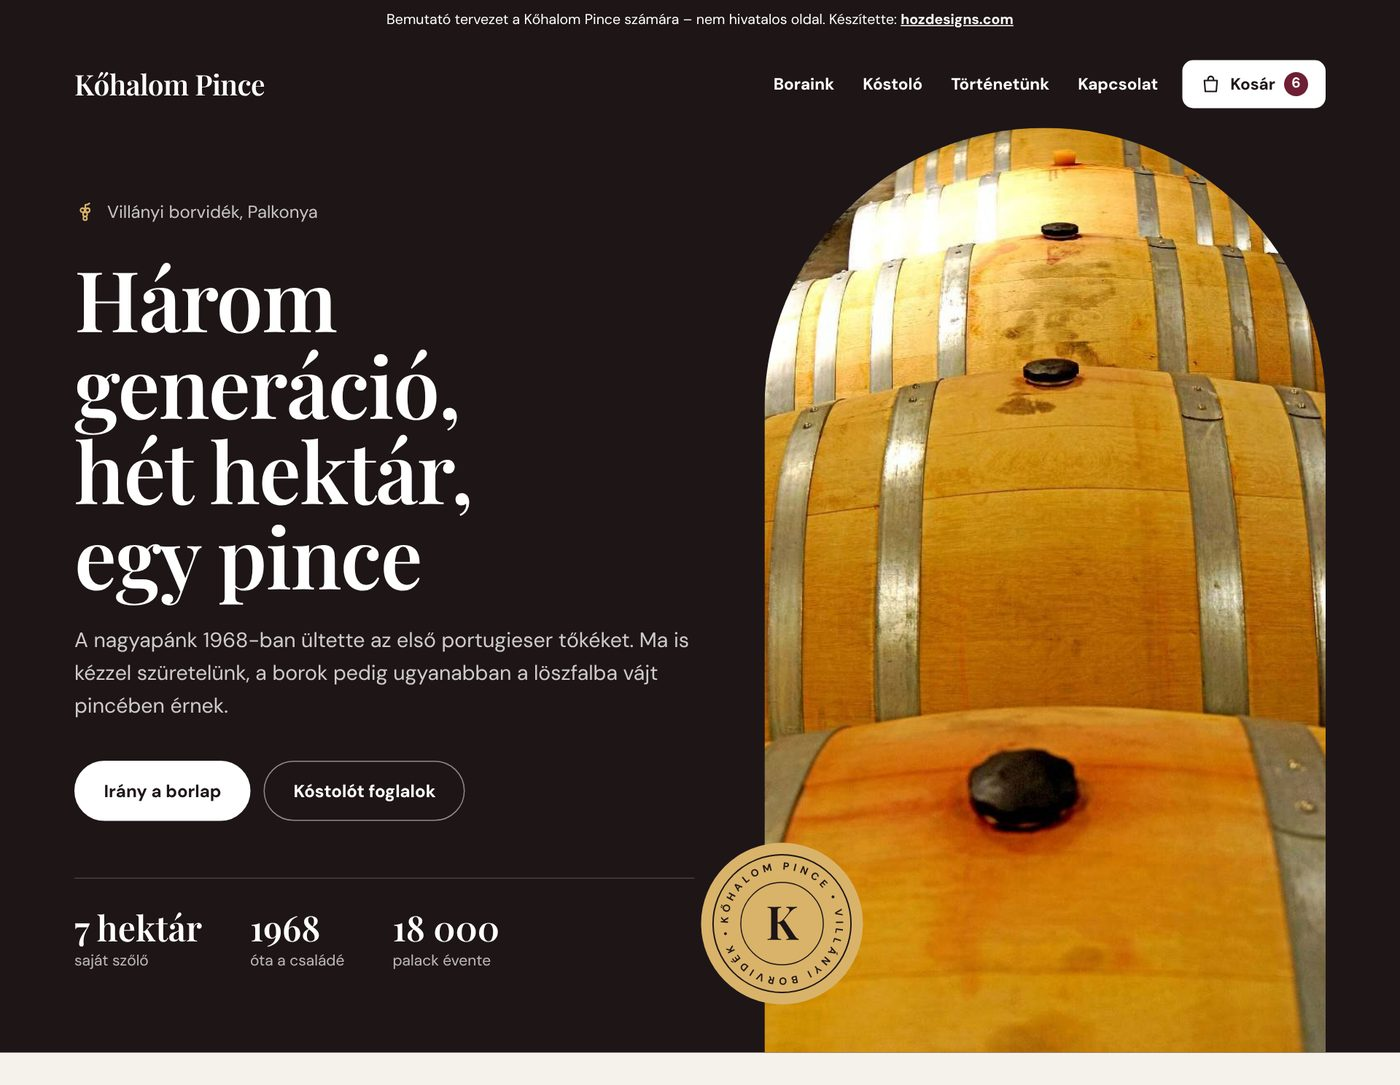
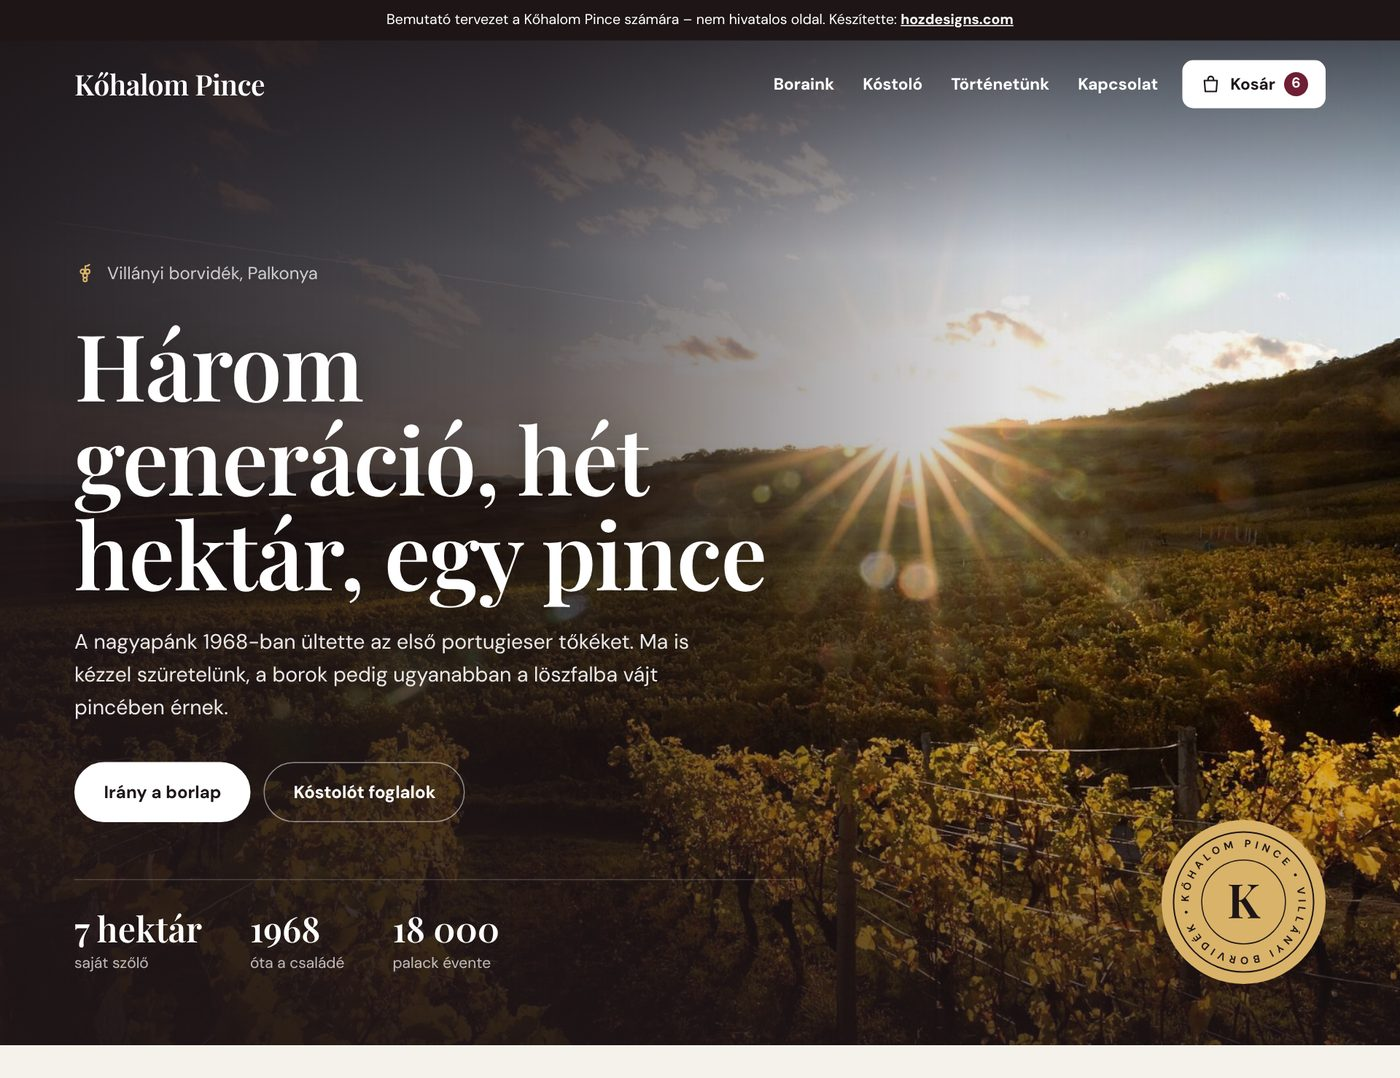
teszt-boraszat: erősebb, teljes szélességű nyitókép
Claude-Session: https://claude.ai/code/session_016Run1nACTgNtgLbjaBZxC9

diff --git a/minta/teszt-boraszat/index.html b/minta/teszt-boraszat/index.html
@@ -373,6 +373,23 @@ footer b{color:var(--ink)}
   .prose{padding-top:56px}.prose p{font-size:18px}
   .dulok{padding:56px 0}
 }
+/* teljes szélességű nyitókép (cfg hero.layout: "teljes") – csak éles, legalább ~1600 px széles fotóval */
+.hero.full{position:relative;display:flex;align-items:flex-end;min-height:min(88vh,860px);isolation:isolate}
+.hero.full .bg{position:absolute;inset:0;z-index:-2}
+.hero.full .bg img{width:100%;height:100%;object-fit:cover;object-position:var(--pos,center)}
+.hero.full::before{content:"";position:absolute;inset:0;z-index:-1;background:linear-gradient(90deg,color-mix(in srgb,var(--dark) 92%,transparent) 0%,color-mix(in srgb,var(--dark) 70%,transparent) 38%,color-mix(in srgb,var(--dark) 12%,transparent) 72%,transparent 100%),linear-gradient(0deg,color-mix(in srgb,var(--dark) 75%,transparent) 0%,transparent 34%),linear-gradient(180deg,color-mix(in srgb,var(--dark) 70%,transparent) 0%,transparent 22%)}
+.hero.full .wrap{display:block;width:100%}
+.hero.full .txt{max-width:660px;padding:120px 0 64px}
+.hero.full h1{font-size:clamp(46px,6.6vw,98px);text-shadow:0 2px 30px rgba(0,0,0,.35)}
+.hero.full .lead{color:rgba(255,255,255,.9)}
+.hero.full .seal{position:absolute;right:max(28px,calc((100vw - 1200px)/2 + 28px));bottom:56px;width:150px;height:150px;color:var(--dark);background:var(--gold);border-radius:50%;padding:9px}
+.t-vilagos .hero.full{color:#fff}
+@media (max-width:1000px){
+  .hero.full{min-height:0}
+  .hero.full::before{background:linear-gradient(0deg,color-mix(in srgb,var(--dark) 94%,transparent) 0%,color-mix(in srgb,var(--dark) 72%,transparent) 50%,color-mix(in srgb,var(--dark) 18%,transparent) 100%)}
+  .hero.full .txt{padding:150px 0 44px}
+  .hero.full .seal{width:96px;height:96px;right:18px;bottom:auto;top:104px}
+}
 </style>
 </head>
 <body class="k-bor s-alap t-alap">
@@ -382,7 +399,8 @@ footer b{color:var(--ink)}
   <nav aria-label="Fő menü"><a href="#borok">Boraink</a><a href="#kostolo">Kóstoló</a><a href="tortenetunk/">Történetünk</a><a href="#kapcsolat">Kapcsolat</a><button type="button" class="cartbtn" data-cart aria-label="Kosár megnyitása"><svg class="ico" aria-hidden="true"><use href="#i-bag"/></svg><span class="t">Kosár</span><span class="n" data-n hidden>0</span></button></nav>
 </header>
 <main>
-<section class="hero" data-shot="hero">
+<section class="hero full" data-shot="hero">
+  <div class="bg" style="--pos:60% 60%"><img src="img/h6.jpg" alt="Szőlősorok naplementében" width="1600" height="1067"></div>
   <div class="wrap">
     <div class="txt">
       <p class="reg"><svg class="ico" aria-hidden="true"><use href="#i-grape"/></svg>Villányi borvidék, Palkonya</p>
@@ -391,8 +409,9 @@ footer b{color:var(--ink)}
       <div class="cta"><a class="btn" href="#borok">Irány a borlap</a><a class="btn line" href="#kostolo">Kóstolót foglalok</a></div>
       <div class="facts"><div><b>7 hektár</b><span>saját szőlő</span></div><div><b>1968</b><span>óta a családé</span></div><div><b>18 000</b><span>palack évente</span></div></div>
     </div>
-    <div class="pic"><img src="img/b7.jpg" alt="Tölgyfa hordók a pincében" width="750" height="1125"><svg class="seal" viewBox="0 0 200 200" aria-hidden="true"><defs><path id="sealp" d="M100 100m-76 0a76 76 0 1 1 152 0a76 76 0 1 1-152 0"/></defs><circle cx="100" cy="100" r="97" fill="none" stroke="currentColor" stroke-width="2"/><circle cx="100" cy="100" r="58" fill="none" stroke="currentColor" stroke-width="1.5"/><text font-size="14.5"><textPath href="#sealp" textLength="468" lengthAdjust="spacing">KŐHALOM PINCE • VILLÁNYI BORVIDÉK •</textPath></text><text class="m" x="100" y="123" text-anchor="middle" font-size="66">K</text></svg></div>
+    
   </div>
+  <svg class="seal" viewBox="0 0 200 200" aria-hidden="true"><defs><path id="sealp" d="M100 100m-76 0a76 76 0 1 1 152 0a76 76 0 1 1-152 0"/></defs><circle cx="100" cy="100" r="97" fill="none" stroke="currentColor" stroke-width="2"/><circle cx="100" cy="100" r="58" fill="none" stroke="currentColor" stroke-width="1.5"/><text font-size="14.5"><textPath href="#sealp" textLength="468" lengthAdjust="spacing">KŐHALOM PINCE • VILLÁNYI BORVIDÉK •</textPath></text><text class="m" x="100" y="123" text-anchor="middle" font-size="66">K</text></svg>
 </section>
 
 <section class="wrap shop" id="borok" data-shot="offer" style="scroll-margin-top:0">
@@ -517,7 +536,7 @@ footer b{color:var(--ink)}
 <symbol id="i-bag" viewBox="0 0 24 24"><path d="M5 8h14l-1 12H6L5 8zM9 8V6.5a3 3 0 0 1 6 0V8"/></symbol>
 </defs></svg>
 
-<script type="application/json" id="hzdata">{"cats": [{"cat": "Vörösborok", "items": [{"name": "Portugieser", "year": 2025, "tags": ["száraz"], "desc": "Könnyű, gyümölcsös, hűtve is jó", "price": 2900, "badge": "Új évjárat", "id": "w0"}, {"name": "Kékfrankos", "year": 2024, "tags": ["száraz"], "desc": "Meggyes, fűszeres, nagy hordóban érlelt", "price": 3600, "id": "w1"}, {"name": "Cabernet Franc", "year": 2022, "tags": ["száraz"], "desc": "Jammertál-dűlő, 18 hónap tölgyfa hordóban", "price": 6900, "id": "w2"}, {"name": "Kőhalom Cuvée", "year": 2021, "tags": ["száraz", "prémium"], "desc": "Cabernet franc, merlot és kékfrankos házasítás", "price": 9800, "badge": "A pince zászlósbora", "id": "w3"}, {"name": "Merlot Válogatás", "year": 2020, "tags": ["száraz"], "desc": "Csak a legjobb évjáratokban készül", "price": 12500, "out": true, "id": "w4"}]}, {"cat": "Rozé és fehér", "items": [{"name": "Rozé", "year": 2025, "tags": ["száraz"], "desc": "Kékfrankosból, friss és epres", "price": 2700, "id": "w5"}, {"name": "Olaszrizling", "year": 2025, "tags": ["száraz"], "desc": "Mandulás, feszes savakkal", "price": 2900, "id": "w6"}, {"name": "Hárslevelű", "year": 2024, "tags": ["félédes"], "desc": "Mézes, hársvirágos illat", "price": 3400, "id": "w7"}]}], "order": {"min_bottles": 6, "ship": {"price": 2900, "free_from": 40000}}, "tastings": [{"name": "Pincelátogatás", "price": 5900, "dur": "kb. 1 óra", "items": ["4 bor kóstolása", "Séta a pincében", "Pogácsa"], "min_guests": 2, "max_guests": 20}, {"name": "Birtokkóstoló", "price": 9900, "dur": "kb. 2 óra", "featured": true, "items": ["7 bor, köztük a Cuvée", "Séta a szőlőben és a pincében", "Hidegtál helyi sajtokkal"], "min_guests": 2, "max_guests": 16}, {"name": "Vacsora a pincében", "price": 19900, "dur": "kb. 3 óra", "items": ["4 fogásos vacsora borpárosítással", "A borász vezetésével", "Régi évjáratok a pincetárból"], "min_guests": 6, "max_guests": 14}], "tfeat": 1, "tdays": [0, 0, 0, 1, 1, 1, 1], "tlead": 2, "slug": "teszt-boraszat", "gal": [["b9", "Szőlősorok"], ["b4", "Hordók a pincében"], ["b0", "A pince"], ["b3", "Kóstolóterem"], ["b8", "Barrique hordók"], ["b10", "A dűlő nyáron"], ["b14", "A birtok épülete"], ["b6", "A hordós érlelő"], ["b7", "Tölgyfa hordók a pincében"]], "hours": [null, null, null, ["12:00", "18:00"], ["12:00", "20:00"], ["10:00", "20:00"], ["10:00", "16:00"]]}</script>
+<script type="application/json" id="hzdata">{"cats": [{"cat": "Vörösborok", "items": [{"name": "Portugieser", "year": 2025, "tags": ["száraz"], "desc": "Könnyű, gyümölcsös, hűtve is jó", "price": 2900, "badge": "Új évjárat", "id": "w0"}, {"name": "Kékfrankos", "year": 2024, "tags": ["száraz"], "desc": "Meggyes, fűszeres, nagy hordóban érlelt", "price": 3600, "id": "w1"}, {"name": "Cabernet Franc", "year": 2022, "tags": ["száraz"], "desc": "Jammertál-dűlő, 18 hónap tölgyfa hordóban", "price": 6900, "id": "w2"}, {"name": "Kőhalom Cuvée", "year": 2021, "tags": ["száraz", "prémium"], "desc": "Cabernet franc, merlot és kékfrankos házasítás", "price": 9800, "badge": "A pince zászlósbora", "id": "w3"}, {"name": "Merlot Válogatás", "year": 2020, "tags": ["száraz"], "desc": "Csak a legjobb évjáratokban készül", "price": 12500, "out": true, "id": "w4"}]}, {"cat": "Rozé és fehér", "items": [{"name": "Rozé", "year": 2025, "tags": ["száraz"], "desc": "Kékfrankosból, friss és epres", "price": 2700, "id": "w5"}, {"name": "Olaszrizling", "year": 2025, "tags": ["száraz"], "desc": "Mandulás, feszes savakkal", "price": 2900, "id": "w6"}, {"name": "Hárslevelű", "year": 2024, "tags": ["félédes"], "desc": "Mézes, hársvirágos illat", "price": 3400, "id": "w7"}]}], "order": {"min_bottles": 6, "ship": {"price": 2900, "free_from": 40000}}, "tastings": [{"name": "Pincelátogatás", "price": 5900, "dur": "kb. 1 óra", "items": ["4 bor kóstolása", "Séta a pincében", "Pogácsa"], "min_guests": 2, "max_guests": 20}, {"name": "Birtokkóstoló", "price": 9900, "dur": "kb. 2 óra", "featured": true, "items": ["7 bor, köztük a Cuvée", "Séta a szőlőben és a pincében", "Hidegtál helyi sajtokkal"], "min_guests": 2, "max_guests": 16}, {"name": "Vacsora a pincében", "price": 19900, "dur": "kb. 3 óra", "items": ["4 fogásos vacsora borpárosítással", "A borász vezetésével", "Régi évjáratok a pincetárból"], "min_guests": 6, "max_guests": 14}], "tfeat": 1, "tdays": [0, 0, 0, 1, 1, 1, 1], "tlead": 2, "slug": "teszt-boraszat", "gal": [["b9", "Szőlősorok"], ["b4", "Hordók a pincében"], ["b0", "A pince"], ["b3", "Kóstolóterem"], ["b8", "Barrique hordók"], ["b10", "A dűlő nyáron"], ["b14", "A birtok épülete"], ["b6", "A hordós érlelő"], ["h6", "Szőlősorok naplementében"]], "hours": [null, null, null, ["12:00", "18:00"], ["12:00", "20:00"], ["10:00", "20:00"], ["10:00", "16:00"]]}</script>
 <script>/* közös segédek a szolgáltatós demókhoz (kutyakozmetika, esküvő, borászat) */
 var HZ = (function () {
   var D = JSON.parse(document.getElementById('hzdata').textContent);

diff --git a/minta/teszt-boraszat/tortenetunk/index.html b/minta/teszt-boraszat/tortenetunk/index.html
@@ -373,6 +373,23 @@ footer b{color:var(--ink)}
   .prose{padding-top:56px}.prose p{font-size:18px}
   .dulok{padding:56px 0}
 }
+/* teljes szélességű nyitókép (cfg hero.layout: "teljes") – csak éles, legalább ~1600 px széles fotóval */
+.hero.full{position:relative;display:flex;align-items:flex-end;min-height:min(88vh,860px);isolation:isolate}
+.hero.full .bg{position:absolute;inset:0;z-index:-2}
+.hero.full .bg img{width:100%;height:100%;object-fit:cover;object-position:var(--pos,center)}
+.hero.full::before{content:"";position:absolute;inset:0;z-index:-1;background:linear-gradient(90deg,color-mix(in srgb,var(--dark) 92%,transparent) 0%,color-mix(in srgb,var(--dark) 70%,transparent) 38%,color-mix(in srgb,var(--dark) 12%,transparent) 72%,transparent 100%),linear-gradient(0deg,color-mix(in srgb,var(--dark) 75%,transparent) 0%,transparent 34%),linear-gradient(180deg,color-mix(in srgb,var(--dark) 70%,transparent) 0%,transparent 22%)}
+.hero.full .wrap{display:block;width:100%}
+.hero.full .txt{max-width:660px;padding:120px 0 64px}
+.hero.full h1{font-size:clamp(46px,6.6vw,98px);text-shadow:0 2px 30px rgba(0,0,0,.35)}
+.hero.full .lead{color:rgba(255,255,255,.9)}
+.hero.full .seal{position:absolute;right:max(28px,calc((100vw - 1200px)/2 + 28px));bottom:56px;width:150px;height:150px;color:var(--dark);background:var(--gold);border-radius:50%;padding:9px}
+.t-vilagos .hero.full{color:#fff}
+@media (max-width:1000px){
+  .hero.full{min-height:0}
+  .hero.full::before{background:linear-gradient(0deg,color-mix(in srgb,var(--dark) 94%,transparent) 0%,color-mix(in srgb,var(--dark) 72%,transparent) 50%,color-mix(in srgb,var(--dark) 18%,transparent) 100%)}
+  .hero.full .txt{padding:150px 0 44px}
+  .hero.full .seal{width:96px;height:96px;right:18px;bottom:auto;top:104px}
+}
 </style>
 </head>
 <body class="k-bor s-alap t-alap sub">
@@ -389,7 +406,7 @@ footer b{color:var(--ink)}
       <h1>Három generáció ugyanazon a domboldalon</h1>
       <p class="lead">1968 óta minden szüret ugyanazzal a mozdulattal kezdődik: a nagyapánk metszőollójával vágjuk le az első fürtöt.</p>
     </div>
-    <div class="pic"><img src="img/b0.jpg" alt="A pince boltíve" width="900" height="675"><svg class="seal" viewBox="0 0 200 200" aria-hidden="true"><defs><path id="sealp" d="M100 100m-76 0a76 76 0 1 1 152 0a76 76 0 1 1-152 0"/></defs><circle cx="100" cy="100" r="97" fill="none" stroke="currentColor" stroke-width="2"/><circle cx="100" cy="100" r="58" fill="none" stroke="currentColor" stroke-width="1.5"/><text font-size="14.5"><textPath href="#sealp" textLength="468" lengthAdjust="spacing">KŐHALOM PINCE • VILLÁNYI BORVIDÉK •</textPath></text><text class="m" x="100" y="123" text-anchor="middle" font-size="66">K</text></svg></div>
+    <div class="pic"><img src="img/h11.jpg" alt="Hordók a pincében" width="1400" height="930"><svg class="seal" viewBox="0 0 200 200" aria-hidden="true"><defs><path id="sealp" d="M100 100m-76 0a76 76 0 1 1 152 0a76 76 0 1 1-152 0"/></defs><circle cx="100" cy="100" r="97" fill="none" stroke="currentColor" stroke-width="2"/><circle cx="100" cy="100" r="58" fill="none" stroke="currentColor" stroke-width="1.5"/><text font-size="14.5"><textPath href="#sealp" textLength="468" lengthAdjust="spacing">KŐHALOM PINCE • VILLÁNYI BORVIDÉK •</textPath></text><text class="m" x="100" y="123" text-anchor="middle" font-size="66">K</text></svg></div>
   </div>
 </section>
 <section class="wrap prose"><p>A Kőhalom Pince nem befektetésnek indult. A nagyapánk, Kőhalmi József kőművesként dolgozott, és a szabad szombatjain ültette be az első fél hektárt portugieserrel.</p><p>Ma hét hektáron gazdálkodunk, de a szabályaink ugyanazok maradtak: csak saját szőlő, kézi szüret, alacsony terhelés. A borainkat nem siettetjük: a nagy vörösök legalább másfél évet töltenek tölgyfa hordóban, mielőtt palackba kerülnek.</p></section>
@@ -446,7 +463,7 @@ footer b{color:var(--ink)}
 <symbol id="i-bag" viewBox="0 0 24 24"><path d="M5 8h14l-1 12H6L5 8zM9 8V6.5a3 3 0 0 1 6 0V8"/></symbol>
 </defs></svg>
 
-<script type="application/json" id="hzdata">{"cats": [{"cat": "Vörösborok", "items": [{"name": "Portugieser", "year": 2025, "tags": ["száraz"], "desc": "Könnyű, gyümölcsös, hűtve is jó", "price": 2900, "badge": "Új évjárat", "id": "w0"}, {"name": "Kékfrankos", "year": 2024, "tags": ["száraz"], "desc": "Meggyes, fűszeres, nagy hordóban érlelt", "price": 3600, "id": "w1"}, {"name": "Cabernet Franc", "year": 2022, "tags": ["száraz"], "desc": "Jammertál-dűlő, 18 hónap tölgyfa hordóban", "price": 6900, "id": "w2"}, {"name": "Kőhalom Cuvée", "year": 2021, "tags": ["száraz", "prémium"], "desc": "Cabernet franc, merlot és kékfrankos házasítás", "price": 9800, "badge": "A pince zászlósbora", "id": "w3"}, {"name": "Merlot Válogatás", "year": 2020, "tags": ["száraz"], "desc": "Csak a legjobb évjáratokban készül", "price": 12500, "out": true, "id": "w4"}]}, {"cat": "Rozé és fehér", "items": [{"name": "Rozé", "year": 2025, "tags": ["száraz"], "desc": "Kékfrankosból, friss és epres", "price": 2700, "id": "w5"}, {"name": "Olaszrizling", "year": 2025, "tags": ["száraz"], "desc": "Mandulás, feszes savakkal", "price": 2900, "id": "w6"}, {"name": "Hárslevelű", "year": 2024, "tags": ["félédes"], "desc": "Mézes, hársvirágos illat", "price": 3400, "id": "w7"}]}], "slug": "teszt-boraszat", "gal": [["b9", "Szőlősorok"], ["b4", "Hordók a pincében"], ["b0", "A pince"], ["b3", "Kóstolóterem"], ["b8", "Barrique hordók"], ["b10", "A dűlő nyáron"], ["b14", "A birtok épülete"], ["b6", "A hordós érlelő"], ["b7", "Tölgyfa hordók a pincében"], ["b5", "A régi pince"], ["b12", "A borbolt"]], "hours": [null, null, null, ["12:00", "18:00"], ["12:00", "20:00"], ["10:00", "20:00"], ["10:00", "16:00"]]}</script>
+<script type="application/json" id="hzdata">{"cats": [{"cat": "Vörösborok", "items": [{"name": "Portugieser", "year": 2025, "tags": ["száraz"], "desc": "Könnyű, gyümölcsös, hűtve is jó", "price": 2900, "badge": "Új évjárat", "id": "w0"}, {"name": "Kékfrankos", "year": 2024, "tags": ["száraz"], "desc": "Meggyes, fűszeres, nagy hordóban érlelt", "price": 3600, "id": "w1"}, {"name": "Cabernet Franc", "year": 2022, "tags": ["száraz"], "desc": "Jammertál-dűlő, 18 hónap tölgyfa hordóban", "price": 6900, "id": "w2"}, {"name": "Kőhalom Cuvée", "year": 2021, "tags": ["száraz", "prémium"], "desc": "Cabernet franc, merlot és kékfrankos házasítás", "price": 9800, "badge": "A pince zászlósbora", "id": "w3"}, {"name": "Merlot Válogatás", "year": 2020, "tags": ["száraz"], "desc": "Csak a legjobb évjáratokban készül", "price": 12500, "out": true, "id": "w4"}]}, {"cat": "Rozé és fehér", "items": [{"name": "Rozé", "year": 2025, "tags": ["száraz"], "desc": "Kékfrankosból, friss és epres", "price": 2700, "id": "w5"}, {"name": "Olaszrizling", "year": 2025, "tags": ["száraz"], "desc": "Mandulás, feszes savakkal", "price": 2900, "id": "w6"}, {"name": "Hárslevelű", "year": 2024, "tags": ["félédes"], "desc": "Mézes, hársvirágos illat", "price": 3400, "id": "w7"}]}], "slug": "teszt-boraszat", "gal": [["b9", "Szőlősorok"], ["b4", "Hordók a pincében"], ["b0", "A pince"], ["b3", "Kóstolóterem"], ["b8", "Barrique hordók"], ["b10", "A dűlő nyáron"], ["b14", "A birtok épülete"], ["b6", "A hordós érlelő"], ["h6", "Szőlősorok naplementében"], ["b5", "A régi pince"], ["h11", "Hordók a pincében"], ["b12", "A borbolt"]], "hours": [null, null, null, ["12:00", "18:00"], ["12:00", "20:00"], ["10:00", "20:00"], ["10:00", "16:00"]]}</script>
 <script>/* közös segédek a szolgáltatós demókhoz (kutyakozmetika, esküvő, borászat) */
 var HZ = (function () {
   var D = JSON.parse(document.getElementById('hzdata').textContent);
